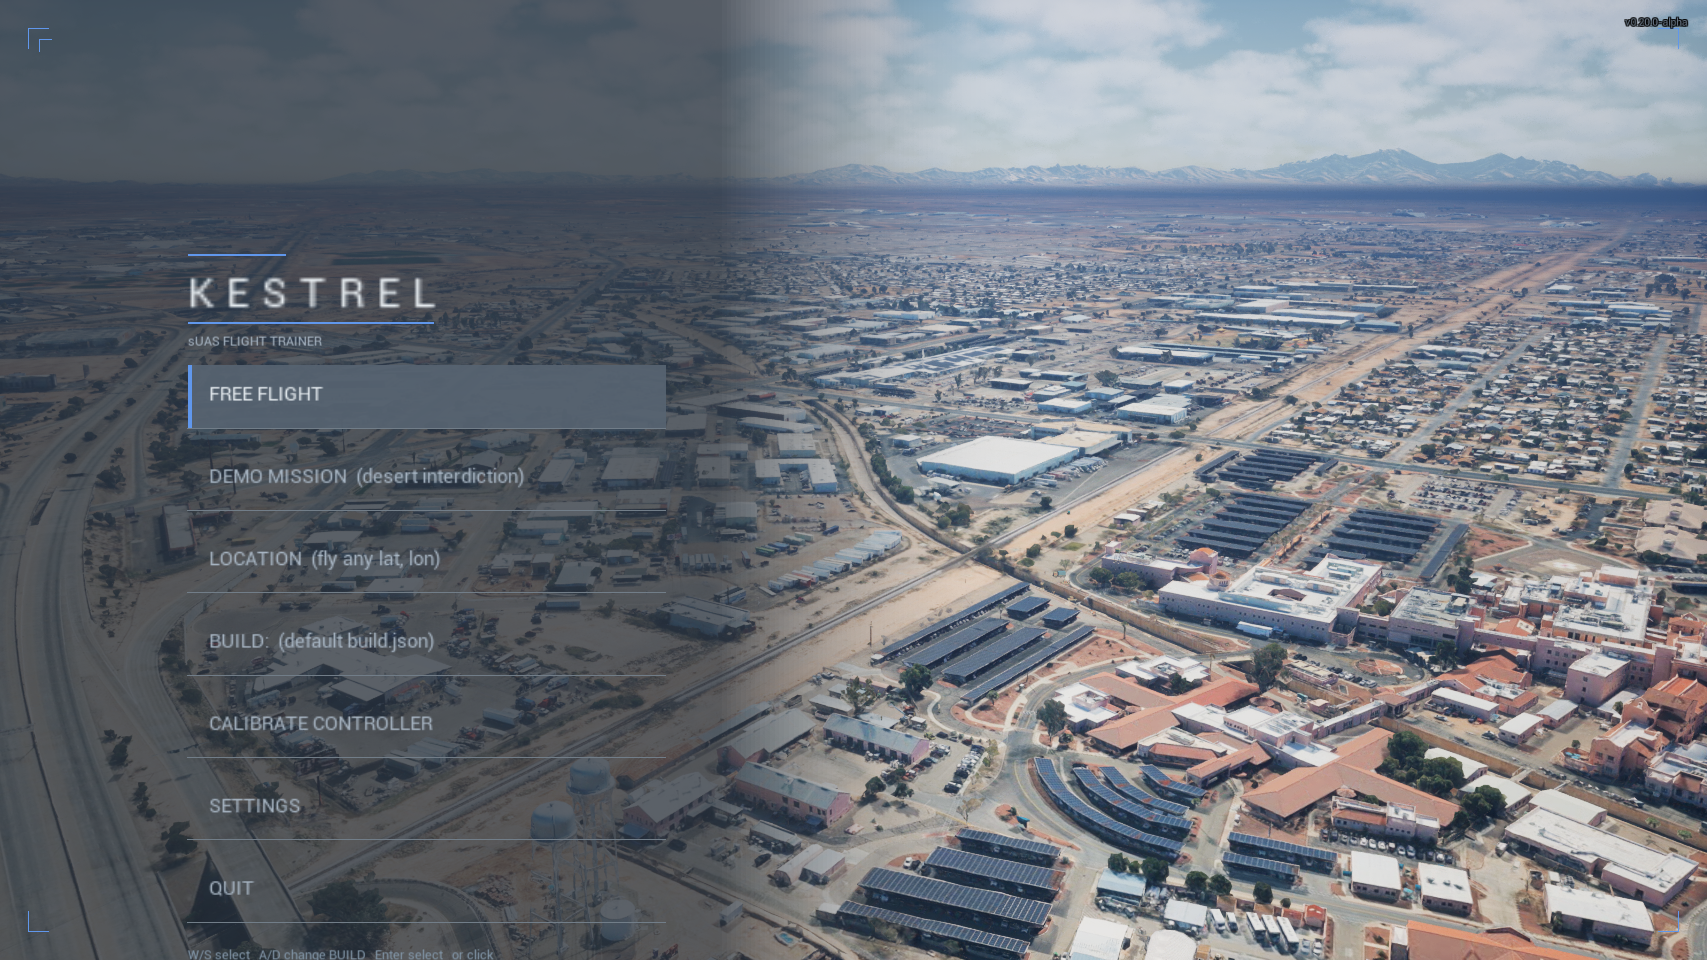
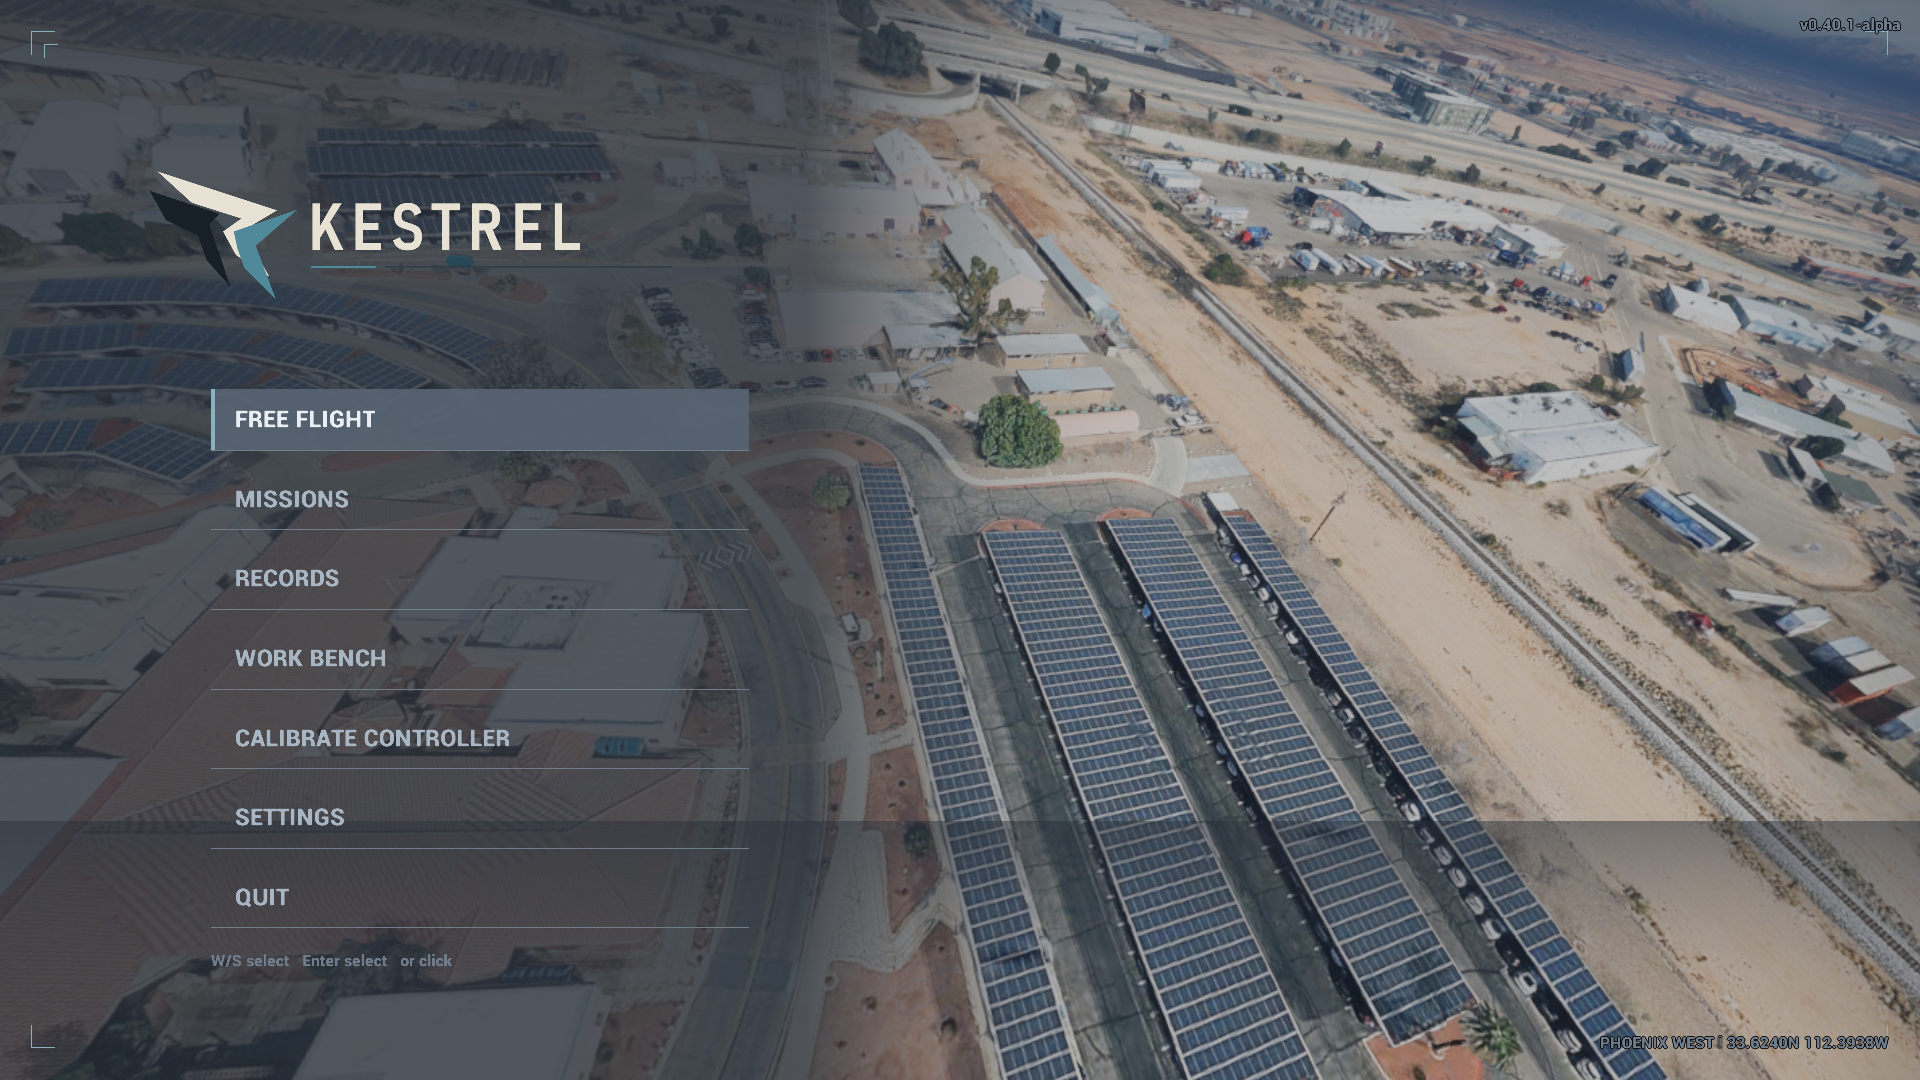
release: sync v0.40.1 identity and documentation

diff --git a/README.md b/README.md
@@ -30,27 +30,28 @@ packs, props, or airspace.
 
 ---
 
-## Current release — v0.38.0-alpha
+## Current release — v0.40.1-alpha
 
-v0.38 turns the WORK BENCH and mission library into complete, mouse-first
-workflows and adds weight-aware payload selection:
+v0.40.1 is the stabilization build for the v0.40 mission, aircraft-art, and
+startup pass:
 
-- New aircraft begin empty. Parts, stack, VTX, antenna, payload, and prop color
-  are selectable, visible on the aircraft, and saved with named builds.
-- Exact battery meshes and labels, rigid straps, connected power/phase leads,
-  corrected camera/VTX placement, stronger compatibility states, and a soft-focus
-  technician workbench make the assembled aircraft readable and believable.
-- Eight sensing, relay, EW, trainer, and fictional simulated-effect payloads are
-  class/weight gated and change mass, endurance, agility, and predicted figures.
-- MISSIONS now has separate Build Mission and Import Mission actions; Hangar and
-  mission operations have clickable buttons, with shortcuts kept secondary.
-- Loading cards include a Test Range backdrop and collision-managed ATAK-style
-  C2 symbols. Hard landings now use pre-resolution impact speed for real damage.
-- Settings chevrons work in both directions, and the scorecard's R-to-refly action
-  now works without colliding with Rename elsewhere in the front end.
+- The shipped identity is now a restrained angular flight-datum mark and clean
+  KESTREL wordmark. Main-menu labels are concise, Work Bench rows say `EDIT` and
+  `RENAME`, and Test Range / Proving Ground copy stays inside its cards.
+- A Work Bench crash in immediate thumbnail capture is fixed by deferring scene
+  capture to Unreal's end-of-frame pass. The packaged 11-screen catalog tour now
+  completes without a crash or duplicate report.
+- Five 1300 mAh Tattu, CNHL, and GNB products have exact meshes and readable wrap
+  art. Thumbnail residency and dark-part compositing were tightened so batteries,
+  boards, and carbon do not cache unfinished white/grey frames.
+- Mission Builder can author an AO with a procedural bunker tunnel. Recon tasks
+  require a fitted camera, real field of view, line of sight, range, and dwell;
+  missions are labelled as operations, courses, user missions, or imports.
+- The public playtest package deliberately bundles the project's public Cesium
+  token, so photoreal terrain works without asking every player to provision one.
 
 Existing installations update automatically when `KESTREL.exe` starts. See the
-[full release notes](RELEASE_NOTES.md) for the complete v0.38 and historical
+[full release notes](RELEASE_NOTES.md) for v0.40.1, v0.40, and the historical
 release record.
 
 ---
@@ -61,13 +62,14 @@ release record.
    **to its own folder**.
 2. Run **`KESTREL.exe`**. That is the only thing to click — no installer.
    SmartScreen will warn (unsigned build) → *More info* → *Run anyway*.
-3. Photoreal terrain requires a Cesium ion access token. On first launch, paste
-   yours into the launcher's hidden prompt; it is stored only in
-   **`Documents\KESTREL\cesium_token.txt`**. Press Enter to use offline terrain.
+3. The public playtest token is bundled, so photoreal terrain works on first
+   launch. Advanced users can replace **`Documents\KESTREL\cesium_token.txt`**
+   with their own scoped Cesium ion token; the updater preserves edited tokens.
 4. If it will not start, run the bundled **`vc_redist.x64.exe`** once. A missing
    Microsoft C++ runtime is the usual cause.
 5. **CALIBRATE CONTROLLER → AUTO-DETECT → SAVE → BACK.**
-6. **LOCATION** → drop a pin, or type `40.7580, -73.9855` → fly.
+6. **FREE FLIGHT** → choose an aircraft → drop a pin, or type
+   `40.7580, -73.9855` → fly.
    Throttle down, then Enter (or your mapped switch) to arm.
 
 Needs internet for terrain streaming. Keyboard and gamepad work, but a radio in
@@ -101,11 +103,13 @@ USB-Joystick mode is the point.
 
 ## Mission training
 
-Three built-in missions cover different skills: **GAUNTLET** is a timed Chicago
-river-canyon gate run, **BRIDGE STRIKE** is a low Pittsburgh ingress with a
-terminal window, and **RELAY DASH** stretches the RF link across Seattle's
-Elliott Bay. Mission scoring grades objective completion, time, link discipline,
-power management, and crashes, while personal bests persist between sessions.
+The mission library now separates operations, handling courses, user missions,
+and imports. Camp Williams courses train link discipline, masked ingress,
+low-altitude handling, and stand-off observation; **COLUMN HALT** and **DECK
+LINE** are operations; **LOW WATER** and **UNDER THE HILL** cover confined-flight
+skills. Mission scoring grades the task actually authored—observation, terminal
+effect, or course completion—plus time, link discipline, power management, and
+crashes, while personal bests persist between sessions.
 
 A `strike` objective is a one-way attack run: fly the terminal dive onto the
 target and the warhead functions. Vehicles in the blast are wrecked rather than

diff --git a/RELEASE_NOTES.md b/RELEASE_NOTES.md
@@ -1,4 +1,84 @@
-# KESTREL v0.38.0-alpha - the current public release
+# KESTREL v0.40.1-alpha - the current public release
+
+Published August 26, 2026. v0.40.1 stabilizes the v0.40 aircraft-art,
+mission-authoring, and startup wave. Existing installations receive it through
+the updater on their next `KESTREL.exe` launch.
+
+![The KESTREL flight-datum identity](media/kestrel-lockup-v2.png)
+
+### Work Bench crash fixed
+
+- The v0.40 crash minidump resolved to immediate thumbnail capture forcing
+  render-state updates from inside `PlayerTick` while imported parts settled.
+  Tile and live-preview captures now run in Unreal's deferred end-of-frame pass.
+- The crash reporter writes one diagnostic per process crash rather than two
+  copies while Unreal unwinds.
+- A fresh packaged 11-screen Work Bench tour exercised empty-build startup,
+  representative assemblies, Stack thumbnails, and all 22 battery products:
+  exit 0, no crash bundle, and no new crash report.
+
+### Cleaner identity and interface
+
+- The crest/reticle and bright sports-blue treatment are replaced by a flat,
+  angular three-plane flight-datum mark, restrained cyan accent, and a clean
+  KESTREL wordmark across the game, native splash, executable, and release page.
+- Main-menu rows now read `FREE FLIGHT`, `MISSIONS`, `WORK BENCH`, and `RECORDS`
+  without parenthetical instructions or dynamic counts.
+- Saved-build row actions say `EDIT` and `RENAME` instead of unexplained `E` and
+  `R` keycaps. Test Range and Proving Ground subtitles fit their real card width.
+
+### Release verification
+
+- 996 Python tests and 208 subtests passed; 167 native Unreal tests passed with
+  0 failures. Shipping and Editor targets compiled, and the fresh cook completed
+  with 0 errors.
+- The 663,155,395-byte archive passed all 101 launcher/update tests and contains
+  exactly one public Cesium token, one protected report relay, one game payload,
+  no webhook, and no obsolete launcher.
+- Source commit: `e2bd087aa9603f3a0bddbf12c528936e6c4a5b96`.
[1 lines of base64/hex data omitted]
+
+---
+
+# KESTREL v0.40.0-alpha (historical)
+
+Published August 26, 2026. v0.40 added catalog-exact battery art, camera-valid
+ISR tasks, clearer mission types, editable tunnel missions, and a continuous
+branded startup.
+
+- Five Tattu, CNHL, and GNB 1300 mAh products gained exact imported geometry and
+  high-resolution wraps. Thumbnail capture now waits for material compilation
+  and texture residency and retains the HDR signal used by the UI composite.
+- Mission Builder can author and round-trip `AO + BUNKER TUNNEL` venues with a
+  georeferenced exterior and a procedural collidable bunker interior.
+- Recon tasks require a fitted live camera, field of view, unobstructed line of
+  sight, authored range, and dwell instead of accepting a tiny waypoint gate.
+- Missions are labelled as operations, training courses, user missions, or
+  imports. Tactical scenarios score observation or terminal effect rather than
+  arbitrary FPV route narration.
+- Public builds again bundle the intentionally public Cesium token for zero-setup
+  terrain. Weather/time controls clearly lock when the selected mission owns them.
+
+---
+
+# KESTREL v0.39.0-alpha (historical)
+
+Published August 26, 2026. v0.39 added independently selected control receivers,
+honest component ownership, explicit mission launch, and the mouse-first action
+campaign.
+
+- ELRS, Crossfire, Tracer, Ghost, diversity, and sub-GHz receiver boards became
+  visible, persisted build selections with real completeness and mass effects.
+- Cameras no longer create phantom VTX antennas; camera, VTX, antenna, receiver,
+  stack, and payload ownership save and render independently.
+- Mission rows select only. Explicit Fly, Export, Rename, Delete, Build Mission,
+  and Import Mission actions replaced surprise launches and keyboard-only flows.
+- Hangar Make Active, Edit Build, Rename, and Fly actions dispatch through the
+  selected saved build, with matching clickable controls throughout the UI.
+
+---
+
+# KESTREL v0.38.0-alpha (historical)
 
 Published August 25, 2026. v0.38 completes the mouse-first aircraft-build and
 mission-library pass, adds weight-aware payload selection, and closes several
